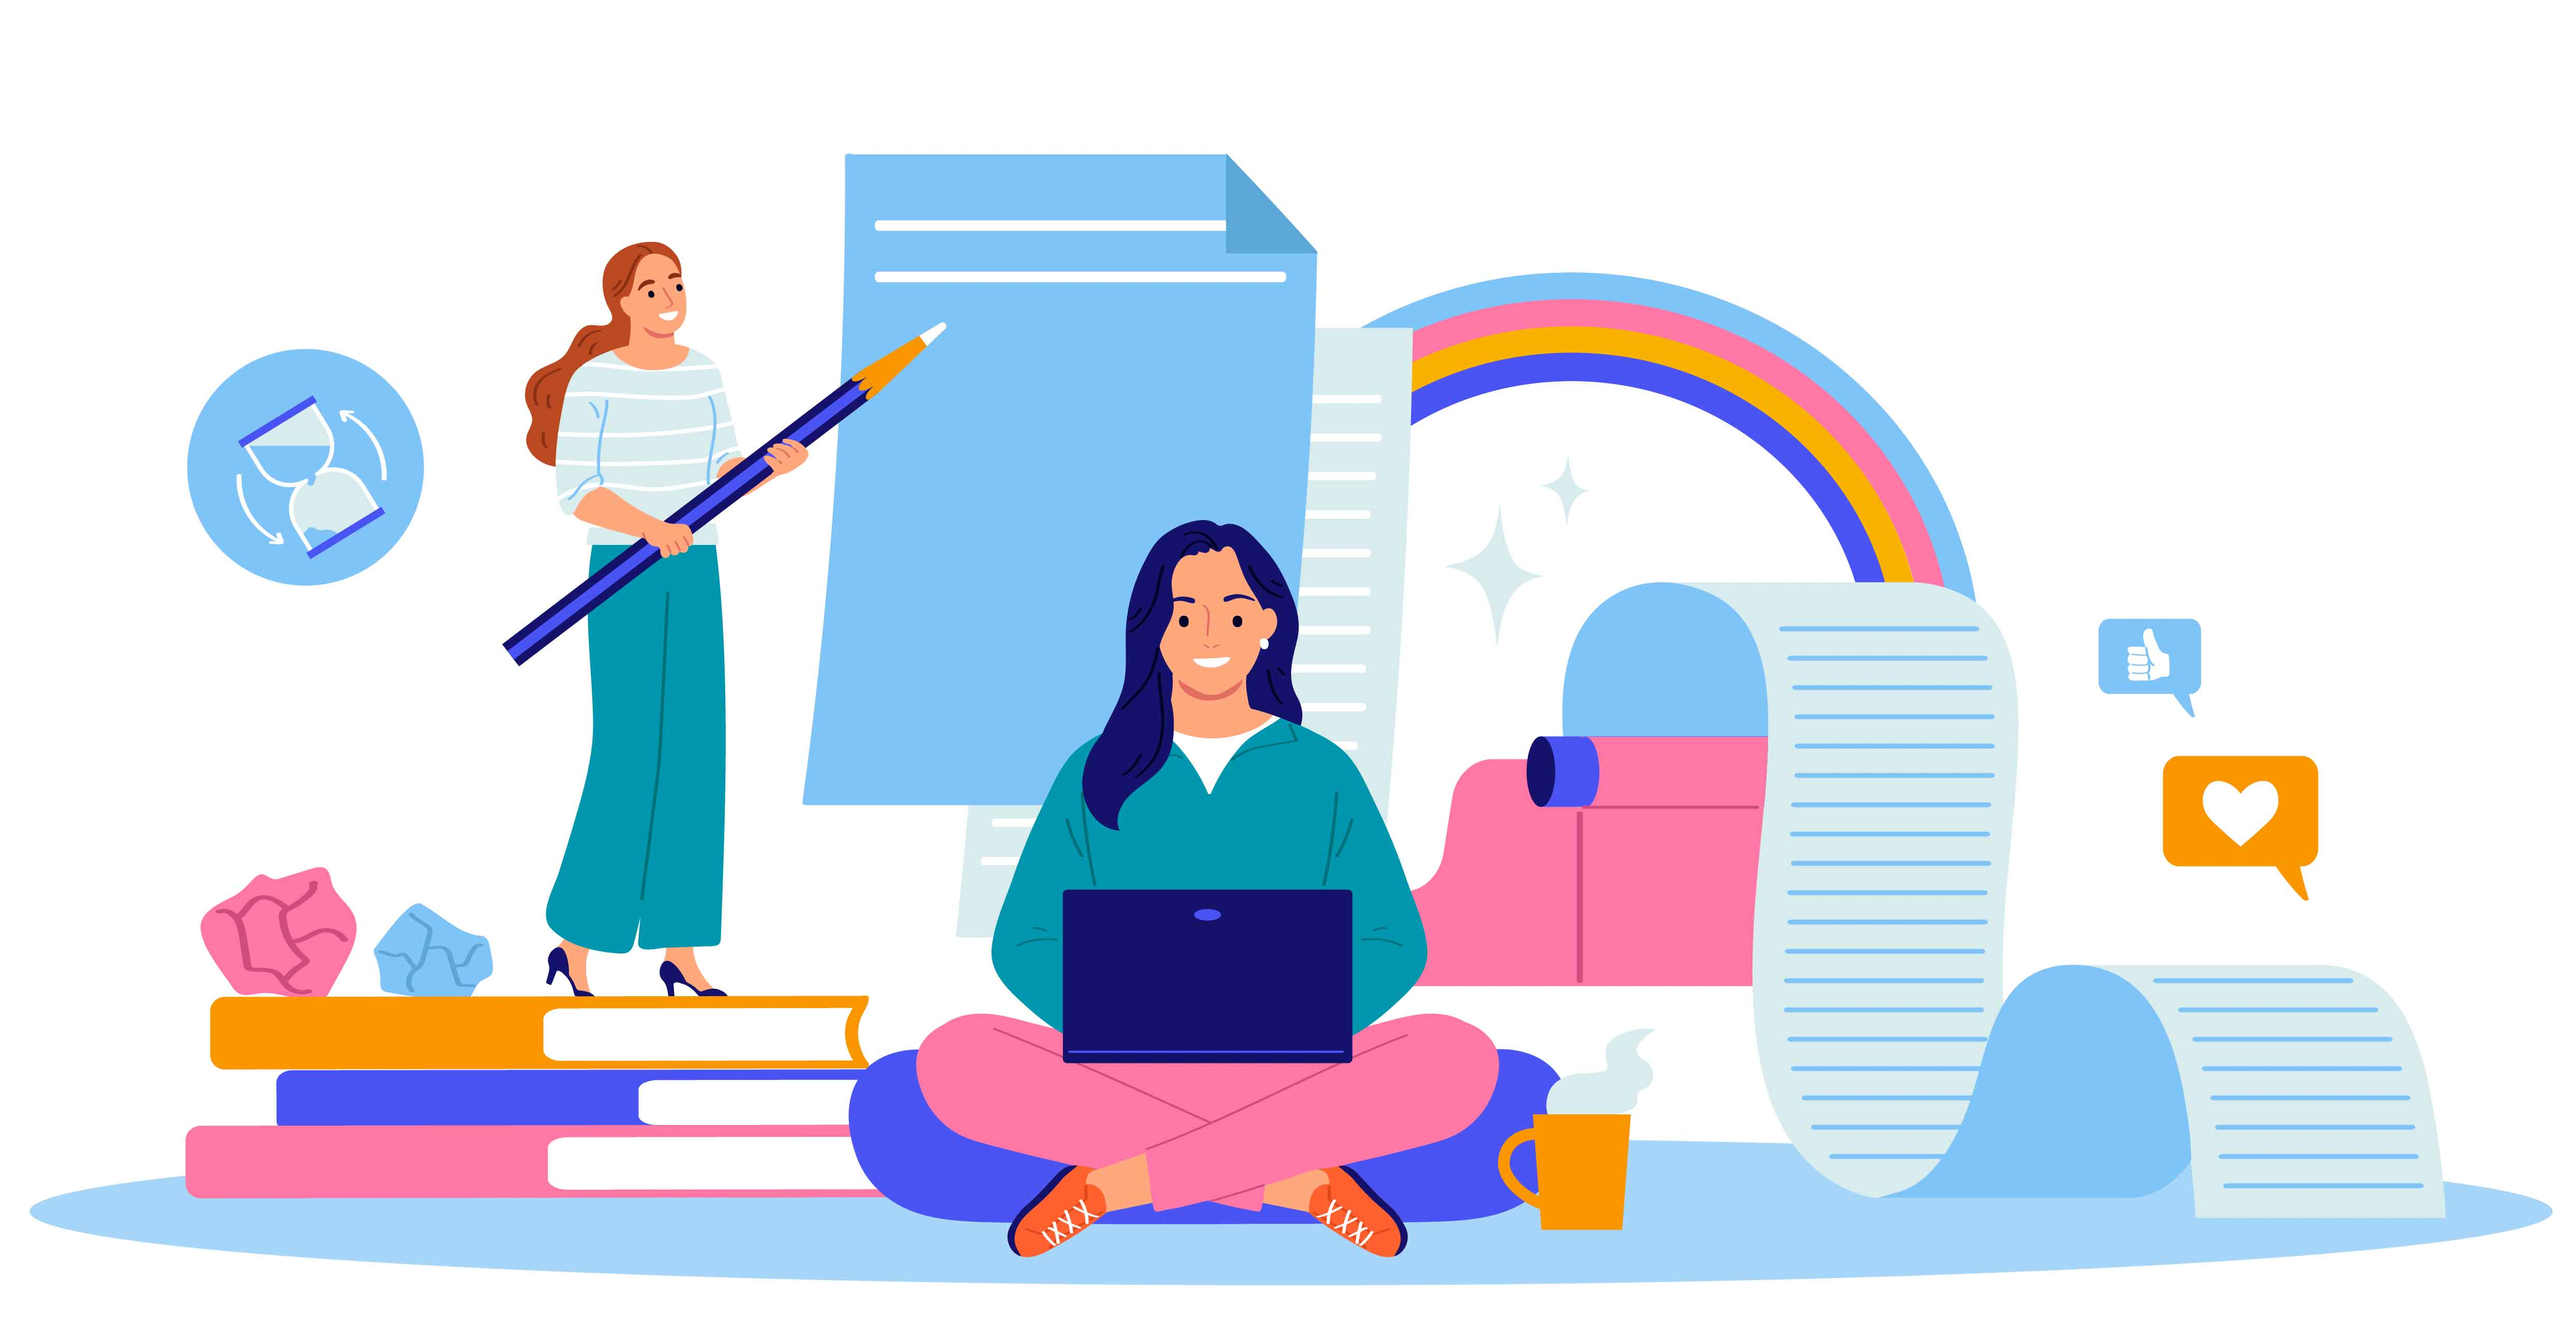
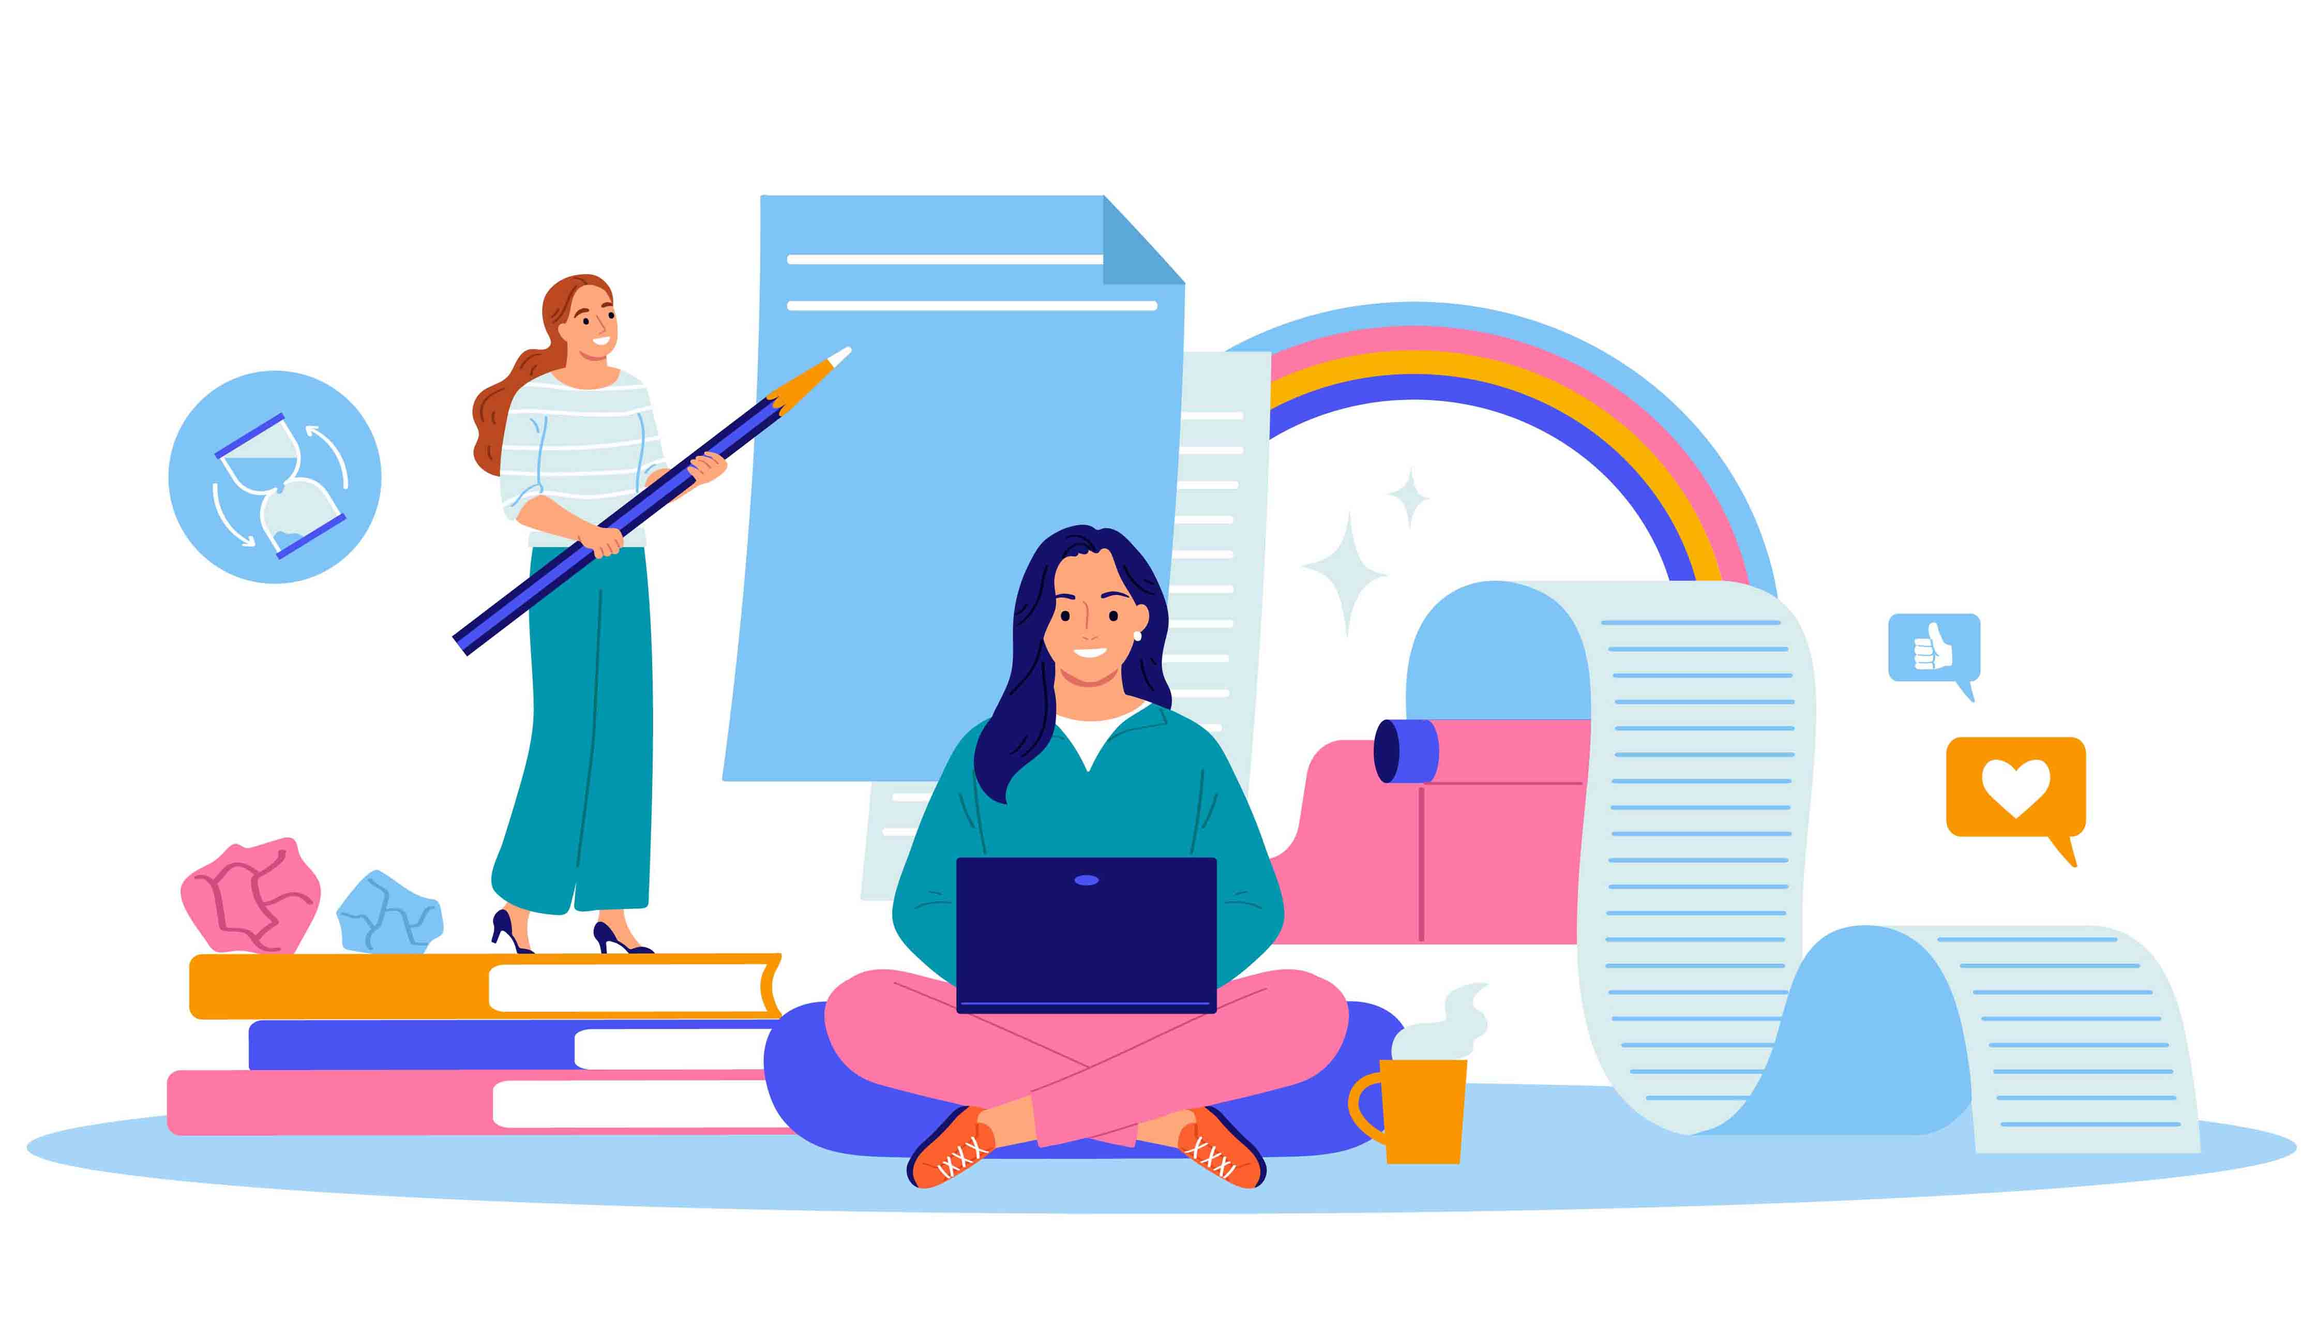
todolist meta dscription added, img size edited

diff --git a/todoList/app/assets/css/signup.css b/todoList/app/assets/css/signup.css
@@ -144,10 +144,15 @@ a.ca:focus-visible {
 	flex-direction: column;
 	text-align: center;
 	align-items: center;
-	padding: 3rem 0 5rem 0;
+	padding: 2rem 0 5rem 0;
+	overflow: hidden;
+}
+.page_non{
+	padding: 0 1rem;
+	
 }
 .userImg{
-	width: 50%;
+	width: 50dvw;
 	height: auto;
 	padding-bottom: 2rem;
 }
@@ -157,9 +162,9 @@ a.ca:focus-visible {
 	padding-top: 1rem;
 }
 .notFoundImg{
-	padding-bottom: 3rem;
+	padding-bottom:3rem;
 	width: auto;
-	height: 30em;
+	height: 50vh;
 }
 .return_linkDiv{
 	display: flex;
@@ -175,7 +180,8 @@ a.ca:focus-visible {
 }
 .return_link {
 	/* display: inline-block; */
-	font-size: 1.5rem;
+	font-size: 1rem;
+	font-weight: bold;
 	padding: 10px;
 	text-decoration: none;
 	color: #444;

diff --git a/todoList/app/assets/css/style.css b/todoList/app/assets/css/style.css
@@ -109,7 +109,7 @@ h1{
   display: block;
   width: 100%;
   padding: 5px 0px;
-  color: #888;
+  color: #555;
   padding-left: 30px;
   font-size: 14px;
   font-family: sans-serif;
@@ -140,7 +140,7 @@ h1{
 
 /* 打消し線 */
 .todo-item h2.checked {
-  color: #999 ;
+  color: #555 ;
   text-decoration: line-through;
 }
   

diff --git a/todoList/app/controller/todos/check.php b/todoList/app/controller/todos/check.php
@@ -1,22 +1,20 @@
 <?php
-
-
-/* 2) Authentification requise
-   （2) ログイン必須） */
+/* Authentification requise
+   （ログイン必須） */
 if (!isset($_SESSION['id']) || !isset($_SESSION['user_name'])) {
     echo "error_auth";
     exit();
 }
 
-/* 3) Vérification du jeton CSRF
-   （3) CSRFトークン検証） */
+/* Vérification du jeton CSRF
+   （CSRFトークン検証） */
 if (!is_csrf_valid()) {
     echo "error_csrf";
     exit();
 }
 
-/* 4) Validation du paramètre id (présence + chiffres uniquement)
-   （4) id の検証：存在＋数字のみ） */
+/* Validation du paramètre id (présence + chiffres uniquement)
+   （id の検証：存在＋数字のみ） */
 if (!isset($_POST['id']) || !ctype_digit($_POST['id'])) {
     echo "error_id";
     exit();
@@ -25,8 +23,8 @@ if (!isset($_POST['id']) || !ctype_digit($_POST['id'])) {
 require_once __DIR__.'/../../model/todos.php';
 $id = (int)$_POST['id'];
 
-/* 5) Vérifier la propriété + récupérer l'état actuel
-   （5) 所有者チェック＋現在のチェック状態の取得） */
+/* Vérifier la propriété + récupérer l'état actuel
+   （所有者チェック＋現在のチェック状態の取得） */
 $todo = getTask($id, $_SESSION['id']);
 
 if (!$todo) {
@@ -34,13 +32,13 @@ if (!$todo) {
     exit();
 }
 
-/* 6) Basculer l'état (0↔1)
-   （6) チェック状態を反転） */
+/* Basculer l'état (0↔1)
+   （チェック状態を反転） */
 $newChecked = $todo['checked'] ? 0 : 1;
 
 $ok = checkTask($newChecked, $id);
 
-/* 7) Réponse : retourner le nouvel état (0/1) ou un message d’erreur
-   （7) レスポンス：新しい状態（0/1）を返す or エラー） */
+/* Réponse : retourner le nouvel état (0/1) ou un message d’erreur
+   （レスポンス：新しい状態（0/1）を返す or エラー） */
 echo $ok ? (string)$newChecked : "error_update";
 exit();

diff --git a/todoList/app/controller/todos/remove.php b/todoList/app/controller/todos/remove.php
@@ -1,21 +1,20 @@
 <?php
-
-/* 2) Authentification requise
-   （2) ログイン必須） */
+/* Authentification requise
+   （ログイン必須） */
 if (!isset($_SESSION['id']) || !isset($_SESSION['user_name'])) {
     echo "error_auth"; // 認証エラー（未ログイン）
     exit();
 }
 
-/* 3) Vérification du jeton CSRF
-   （3) CSRFトークン検証） */
+/* Vérification du jeton CSRF
+   （CSRFトークン検証） */
 if (!is_csrf_valid()) {
     echo "error_csrf"; // CSRFトークン不一致
     exit();
 }
 
-/* 4) Validation du paramètre id (présence + chiffres uniquement)
-   （4) ID検証：存在＋数字のみ） */
+/* Validation du paramètre id (présence + chiffres uniquement)
+   （ID検証：存在＋数字のみ） */
 if (!isset($_POST['id']) || !ctype_digit($_POST['id'])) {
     echo "error_id"; // IDが無効または未指定
     exit();
@@ -24,12 +23,12 @@ if (!isset($_POST['id']) || !ctype_digit($_POST['id'])) {
 require_once __DIR__.'/../../model/todos.php';
 $id = (int)$_POST['id']; // 数値型にキャスト
 
-/* 5) Suppression avec contrôle de propriété (id + userId)
-   （5) 所有者チェック込みの削除：id と userId を条件に） */
+/* Suppression avec contrôle de propriété (id + userId)
+   （所有者チェック込みの削除：id と userId を条件に） */
 $res = deleteTask($id, $_SESSION['id']);
 
-/* 6) Réponse
-   （6) レスポンス） */
+/* Réponse
+   （レスポンス） */
 if ($res > 0) {
     echo "success"; // 削除成功
 } else {

diff --git a/todoList/app/view/404.php b/todoList/app/view/404.php
@@ -5,23 +5,28 @@
 <html lang="fr">
 <head>
     <meta charset="UTF-8">
+    <meta name="viewport" content="width=device-width, initial-scale=1.0">
+    <meta name="description" content="Erreur 404 : la page est introuvable. Retournez à l’inscription ou à la connexion.">
     <title>404 - Page non trouvée</title>
     <link rel="stylesheet" href="/assets/css/signup.css">
 </head>
 <body>
     <div class="imgDiv">
         <img src="/assets/img/404fp.jpg" alt="404img" class="notFoundImg">
-        <h1>404 - Page non trouvée</h1>
-            <br>
-        <h2>La page que vous cherchez n’existe pas.</h2>
+        <div class="page_non">
+            <h1>404 - Page non trouvée</h1>
+                <br>
+            <h2>La page que vous cherchez n’existe pas.</h2>
 
-        <div class="return_linkDiv">  
-            <p class="return_link_p">
-            <a href="/signup" class="return_link">Créer un compte </a> 
-            <span>|</span>
-            <a href="/login" class="return_link">Se connecter</a>
-            </p>
-        </div>    
+            <div class="return_linkDiv">  
+                <p class="return_link_p">
+                <a href="/signup" class="return_link">Créer un compte </a> 
+                <span>|</span>
+                <a href="/login" class="return_link">Se connecter</a>
+                </p>
+            </div> 
+        </div>
+           
     </div>
 </body>
 </html>

diff --git a/todoList/app/view/todos/list.php b/todoList/app/view/todos/list.php
@@ -3,6 +3,7 @@
 <head>
     <meta charset="UTF-8">
     <meta name="viewport" content="width=device-width, initial-scale=1.0">
+    <meta name="description" content="Ajoutez, modifiez et supprimez vos tâches dans votre liste ToDo.">
     <link rel="stylesheet" href="/assets/css/style.css">
     <title>Liste de tâches</title>
     <script src="/assets/js/script.js" defer></script>
@@ -55,11 +56,11 @@
                     <span class="remove-to-do" data-todo-id="<?= (int)$todo['id'] ?>">x</span>
 
                     <?php if ($todo['checked']) { ?>
-                        <input type="checkbox" class="check-box"
+                        <input type="checkbox" class="check-box" name="checkbox"
                                data-todo-id ="<?= (int)$todo['id'] ?>" checked /> 
                         <h2 class="checked"><?= htmlspecialchars($todo['title'], ENT_QUOTES, 'UTF-8') ?></h2>
                     <?php } else { ?>
-                        <input type="checkbox" class="check-box"
+                        <input type="checkbox" class="check-box" name="checkbox"
                                data-todo-id ="<?= (int)$todo['id'] ?>" />
                         <h2><?= htmlspecialchars($todo['title'], ENT_QUOTES, 'UTF-8') ?></h2>
                         <!-- htmlspecialcharsでXSS攻撃（<script>...）が文字列のまま表示 -->

diff --git a/todoList/app/controller/todos/add.php b/todoList/app/controller/todos/add.php
@@ -1,19 +1,18 @@
 <?php
-
-/* 2) Authentification requise
-   （2) ログイン必須） */
+/* Authentification requise
+   （ログイン必須） */
 if (!isset($_SESSION['id']) || !isset($_SESSION['user_name'])) {
     redirectTo("/signup");
 }
 
-/* 3) Vérification du jeton CSRF
-   （3) CSRFトークン検証） */
+/* Vérification du jeton CSRF
+   （ CSRFトークン検証） */
 if (!is_csrf_valid()) {
     redirectTo("/", "error", "error CSRF");// 画面側で表示
 }
 
-/* 4) Validation du champ "title" 
-   （4) タイトルの検証） */
+/* Validation du champ "title" 
+   （タイトルの検証） */
 $title = trim($_POST['title']??""); // ← 空白削除
 if (empty($title)) {            // ← 空白だけならここで弾かれる
     redirectTo("/?mess=error");
@@ -21,13 +20,13 @@ if (empty($title)) {            // ← 空白だけならここで弾かれる
 
 require_once __DIR__.'/../../model/todos.php';
 
-/* 5) Insertion dans la base
-   （5) DBへINSERT） */
+/* Insertion dans la base
+   （ DBへINSERT） */
 
 $ok = addTask($title, $_SESSION['id']);
 
-/* 6) Redirection selon le résultat
-   （6) 結果に応じてリダイレクト） */
+/* Redirection selon le résultat
+   （結果に応じてリダイレクト） */
 if ($ok) {
     redirectTo("/?mess=success");
 } else {

diff --git a/todoList/app/view/users/home.php b/todoList/app/view/users/home.php
@@ -10,6 +10,7 @@ if (!isset($_SESSION['id']) || !isset($_SESSION['user_name'])) {
 <head>
      <meta charset="UTF-8">
      <meta name="viewport" content="width=device-width, initial-scale=1.0">
+     <meta name="description" content="Gérez vos tâches facilement avec l’application ToDo List, simple et intuitive.">
      <link rel="stylesheet" href="/assets/css/signup.css">
      <title>Accueil</title>
 </head>

diff --git a/todoList/app/view/users/delete-account.php b/todoList/app/view/users/delete-account.php
@@ -2,8 +2,9 @@
 <html lang="fr">
 <head>
     <meta charset="UTF-8">
-    <title>Supprimer mon compte</title>
     <meta name="viewport" content="width=device-width, initial-scale=1.0">
+    <meta name="description" content="Supprimez votre compte ToDo List et toutes vos données associées.">
+    <title>Supprimer mon compte</title>
     <link rel="stylesheet" href="/assets/css/signup.css">
 </head>
 <body>

diff --git a/todoList/app/model/users.php b/todoList/app/model/users.php
@@ -31,7 +31,7 @@ function addUser($uname, $hashed, $name)
     $ok = $stmt->execute([$uname, $hashed, $name]); 
     if($ok)
     {
-        return $conn->lastInsertId(); // 登録成功 → 新しいユーザーIDを返す
+        return $conn->lastInsertId(); // Inscription réussie登録成功 → 新しいユーザーIDを返す
     }
     else
     {

diff --git a/todoList/app/view/users/signup.php b/todoList/app/view/users/signup.php
@@ -3,6 +3,7 @@
 <head>
      <meta charset="UTF-8">
      <meta name="viewport" content="width=device-width, initial-scale=1.0">
+     <meta name="description" content="Créez un compte ToDo List et commencez à organiser vos tâches.">
      <link rel="stylesheet" href="/assets/css/signup.css">
      <title>Inscription</title>
 </head>

diff --git a/todoList/app/view/users/login.php b/todoList/app/view/users/login.php
@@ -3,6 +3,7 @@
 <head>
     <meta charset="UTF-8">
     <meta name="viewport" content="width=device-width, initial-scale=1.0">
+    <meta name="description" content="Connectez-vous à votre compte ToDo List pour gérer vos tâches.">
 	<link rel="stylesheet" href="/assets/css/signup.css">
     <title>Connexion</title>
 </head>
